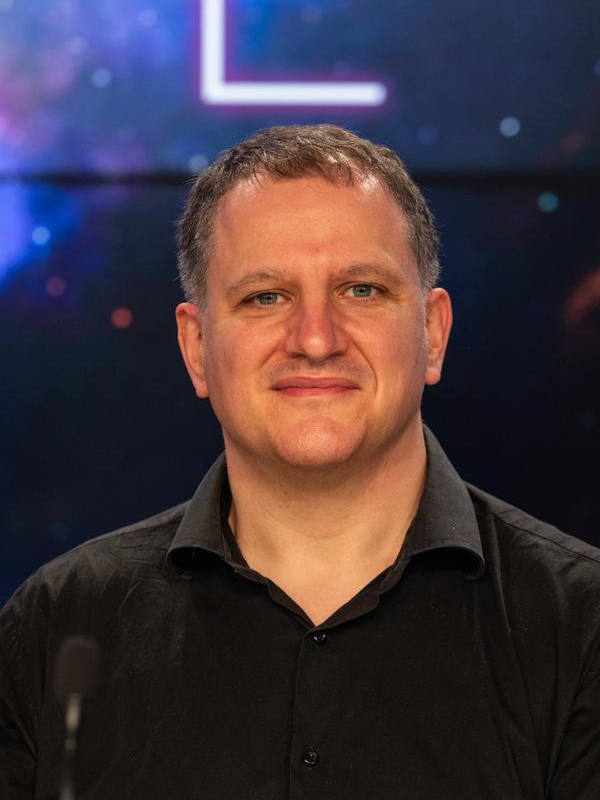
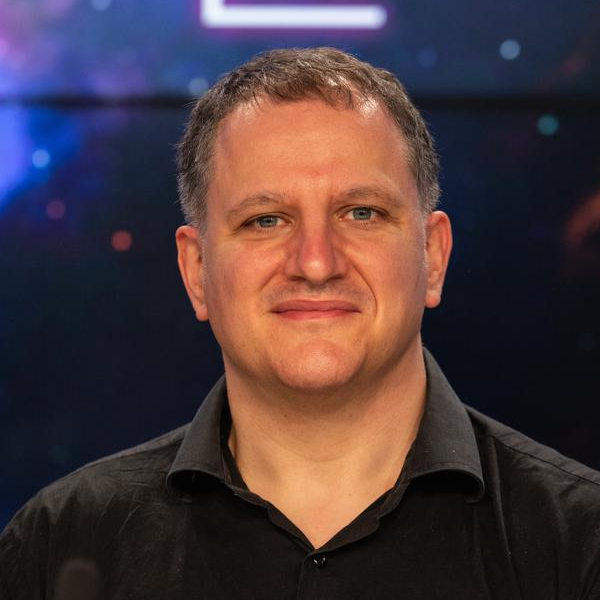
More team

diff --git a/docs/stylesheets/extra.css b/docs/stylesheets/extra.css
@@ -1,37 +1,49 @@
 .team-grid {
   display: grid;
   grid-template-columns: repeat(auto-fit, minmax(220px, 1fr));
-  gap: 1.5rem;
-  margin-top: 2rem;
+  gap: 1.25rem;
+  margin-top: 1rem;
 }
 
 .team-card {
   text-align: center;
-  padding: 1.25rem;
+  padding: 0.5rem;
   border: 1px solid rgba(0,0,0,0.08);
   border-radius: 16px;
   background: white;
   box-shadow: 0 2px 10px rgba(0,0,0,0.04);
 }
 
-.team-photo {
+.team-photo-wrapper {
   width: 140px;
   height: 140px;
-  object-fit: cover;
+  margin: 0 auto 0rem;
   border-radius: 50%;
-  margin-bottom: 1rem;
+  overflow: hidden;
+  background: #eee;
+  display: flex;
+  align-items: center;
+  justify-content: center;
+  text-align: center;
+  font-size: 0.8rem;
+  padding: 0rem;
+}
+
+.team-photo {
+  width: 100%;
+  height: 100%;
+  object-fit: cover;
 }
 
 .team-card h3 {
-  margin-bottom: 0.35rem;
+  margin-bottom: 0rem;
 }
 
 .team-role {
-  font-weight: 600;
-  margin-bottom: 0.2rem;
+  margin-bottom: 0rem;
 }
 
 .team-affiliation {
   color: #666;
-  font-size: 0.95rem;
+  font-size: 0.75rem;
 }

diff --git a/design/logo/asix_logo.tex b/design/logo/asix_logo.tex
@@ -1,4 +1,4 @@
-\documentclass[margin=5pt]{standalone}
+\documentclass[margin=2pt]{standalone}
 \usepackage{tikz}
 
 \usepackage[T1]{fontenc}
@@ -32,7 +32,7 @@
     \begin{scope}[xshift=2*\hdist mm]\hexagon{I}\end{scope}
     \begin{scope}[xshift=3*\hdist mm, yshift=-\rad mm]\hexagon{X};\end{scope}
     }
-    \node at (1.5, -1.35) {\small Analog Spectral Imager for X-rays};
+    %\node at (1.5, -1.35) {\small Analog Spectral Imager for X-rays};
 \end{tikzpicture}
 
 \end{document}

diff --git a/docs/team.md b/docs/team.md
@@ -3,29 +3,58 @@ title: Team
 description: Team members and partner organisations in ASIX.
 ---
 
-# Team
+## Senior members
 
 <div class="team-grid">
 
   <div class="team-card">
-    <img src="../assets/images/team/luca-baldini.png" alt="Luca Baldini" class="team-photo">
+    <div class="team-photo-wrapper">
+     <img src="../assets/images/team/luca-baldini.png" alt="LB"
+          class="team-photo">
+    </div>
     <h3>Luca Baldini</h3>
-    <p class="team-role">Detector development, simulation and reconstruction</p>
     <p class="team-affiliation">University of Pisa</p>
+    <p class="team-role">Detector development, simulation, reconstruction</p>
   </div>
 
   <div class="team-card">
-    <img src="../assets/images/team/luca-latronico.jpeg" alt="Luca Latronico" class="team-photo">
-    <h3>Luca Latronico</h3>
-    <p class="team-role">Detector development, technology transfer</p>
-    <p class="team-affiliation">INFN-Torino</p>
-  </div>
-
-  <div class="team-card">
-    <img src="../assets/images/team/massimo-minuti.jpg" alt="Massimo Minuti" class="team-photo">
-    <h3>Massimo Minuti</h3>
-    <p class="team-role">Detector development, system engineering</p>
+    <div class="team-photo-wrapper">
+      <img src="../assets/images/team/ronaldo-bellazzini.jpg" alt="RB"
+           class="team-photo">
+    </div>
+    <h3>Ronaldo Bellazzini</h3>
     <p class="team-affiliation">INFN-Pisa</p>
+    <p class="team-role">Detector development, senior advisor</p>
+  </div>
+
+  <div class="team-card">
+    <div class="team-photo-wrapper">
+      <img src="../assets/images/team/luca-latronico.jpeg" alt="LL"
+           class="team-photo">
+    </div>
+    <h3>Luca Latronico</h3>
+    <p class="team-affiliation">INFN-Torino</p>
+    <p class="team-role">Detector development, technology transfer</p>
+  </div>
+
+  <div class="team-card">
+    <div class="team-photo-wrapper">
+      <img src="../assets/images/team/massimo-minuti.jpg" alt="MM"
+           class="team-photo">
+    </div>
+    <h3>Massimo Minuti</h3>
+    <p class="team-affiliation">INFN-Pisa</p>
+    <p class="team-role">Detector development, system engineering</p>
+  </div>
+
+  <div class="team-card">
+    <div class="team-photo-wrapper">
+      <img src="../assets/images/team/carmelo=sgro.jpg" alt="CS"
+           class="team-photo">
+    </div>
+    <h3>Carmelo Sgrò</h3>
+    <p class="team-affiliation">INFN-Pisa</p>
+    <p class="team-role">Detector development, integration and test</p>
   </div>
 
 </div>

diff --git a/docs/index.md b/docs/index.md
@@ -5,7 +5,8 @@ description: ASIX project landing page.
 
 # ASIX: Analog Spectral Imager for X-rays
 
-<img src="assets/images/asix_logo.svg" width="600">
+<img src="assets/images/asix_logo.svg" width="400"
+     style="display: block; margin: 0 auto;">
 
 ASIX (Analog Spectral Imager for X-Rays) will deliver a new class of hybrid,
 room-temperature X-ray detectors for single-photon, event-driven, spectral
@@ -15,7 +16,5 @@ and material science.
 
 ## Explore
 
-- Learn about the [funding](funding.md)
 - Meet the [team](team.md)
 - Read the [technical information](technical-info.md)
-
